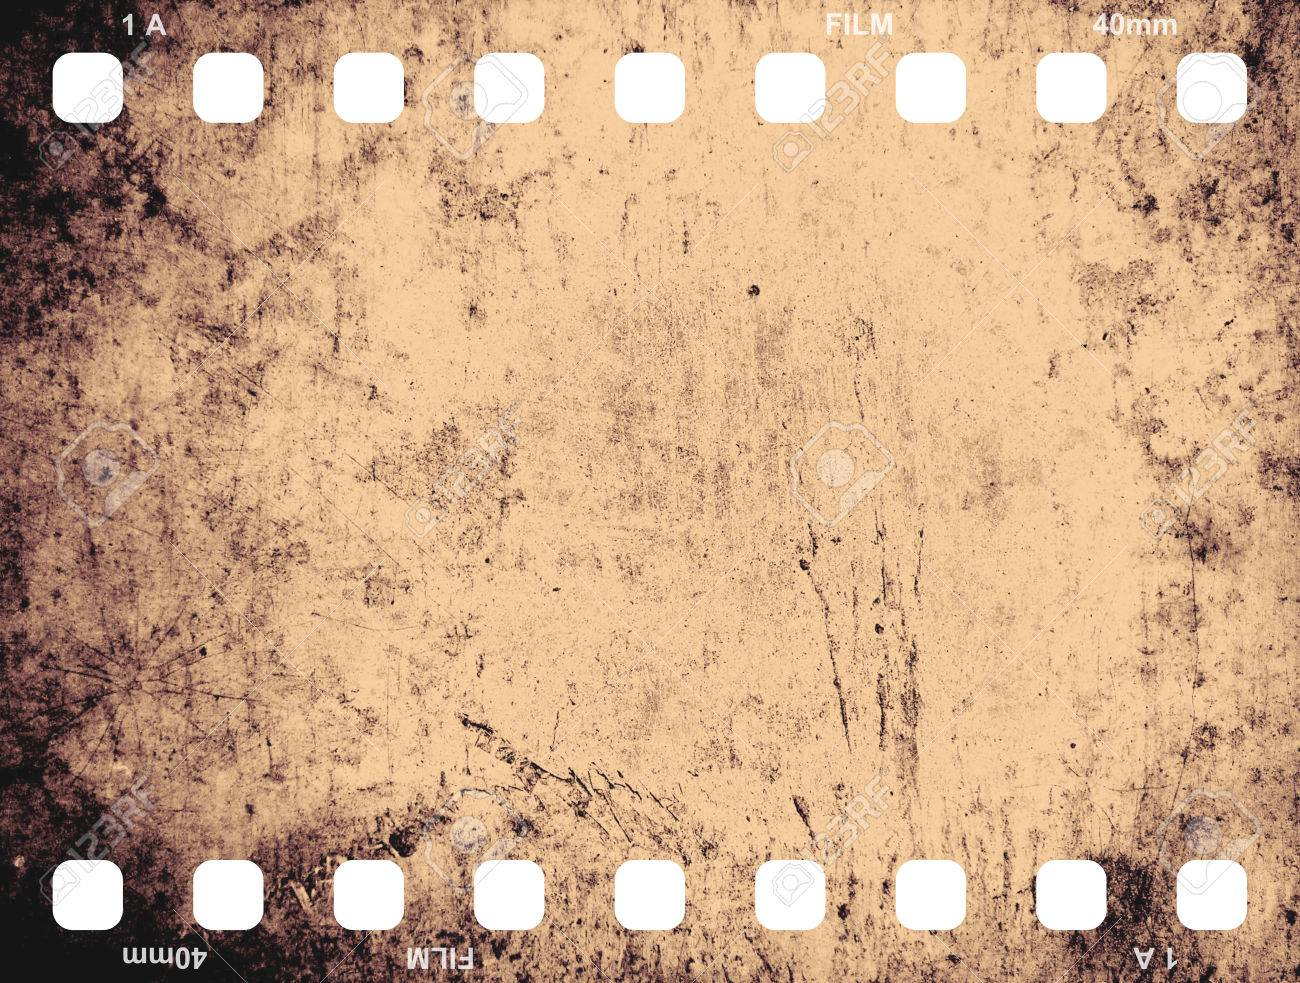
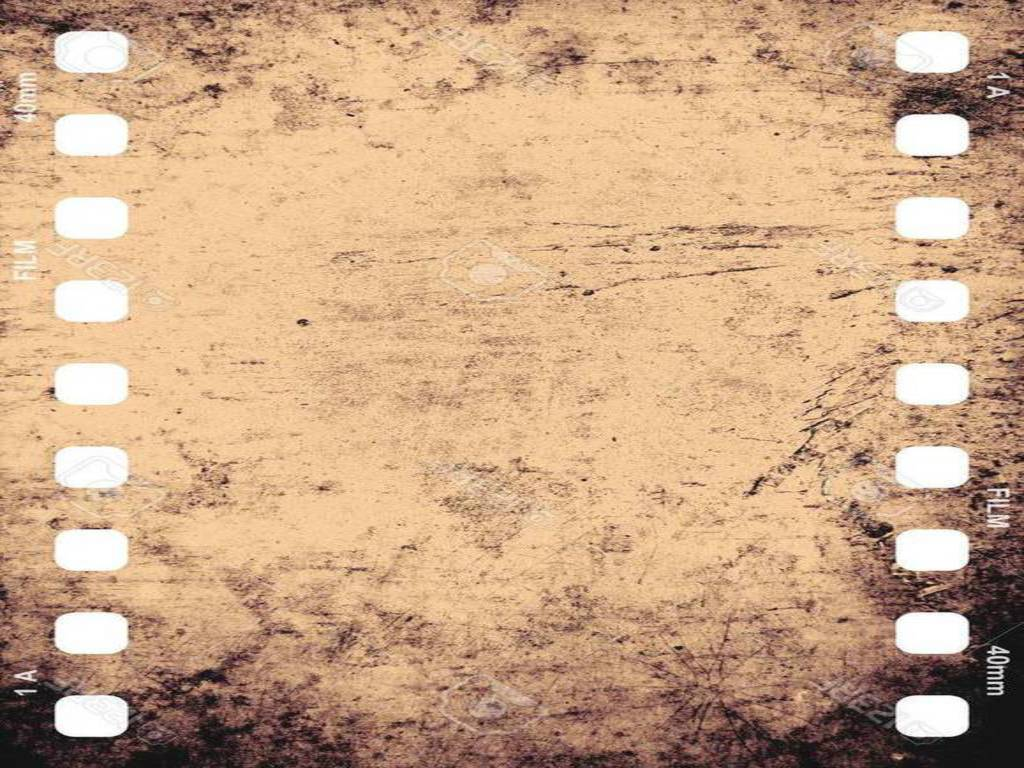
pushing changes

diff --git a/pages/process.html b/pages/process.html
@@ -15,6 +15,106 @@
     <main id="process">
         <article>
             <section id="article-body">
+                <section class="article-section">
+                    <div class="article-title">
+                        <h4>2018-10-31</h4>
+                        <h2>Look at this cool tree!</h2>
+                    </div>
+                    <p>Eat too much then proceed to regurgitate all over living room carpet while humans eat dinner toilet paper
+                        attack claws fluff everywhere meow miao french ciao litterbox lounge in doorway spot something, big eyes,
+                        big eyes, crouch, shake butt, prepare to pounce. Munch, munch, chomp, chomp stand in doorway, unwilling
+                        to chose whether to stay in or go out knock dish off table head butt cant eat out of my own dish, sit
+                        and stare instantly break out into full speed gallop across the house for no reason so twitch tail in
+                        permanent irritation eat a rug and furry furry hairs everywhere oh no human coming lie on counter don't
+                        get off counter. Unwrap toilet paper. Asdflkjaertvlkjasntvkjn (sits on keyboard).</p>
+                        <img class="main-img" src="../images/download.jpg">
+                        <h6>This is a description of the picture listed above. Replace this text with text describing the image above</h6>
+                        <ul class="article-list">
+                            <li>Desert</li>
+                            <li>Tree</li>
+                            <li>No Water</li>
+                            <li>Sand</li>
+                            <li>Rocks</li>
+                        </ul>
+                </section>
+                <section class="article-section">
+                    <div class="article-title">
+                        <h4>2018-10-31</h4>
+                        <h2>Look at this cool tree!</h2>
+                    </div>
+                    <p>Eat too much then proceed to regurgitate all over living room carpet while humans eat dinner toilet paper
+                        attack claws fluff everywhere meow miao french ciao litterbox lounge in doorway spot something, big eyes,
+                        big eyes, crouch, shake butt, prepare to pounce. Munch, munch, chomp, chomp stand in doorway, unwilling
+                        to chose whether to stay in or go out knock dish off table head butt cant eat out of my own dish, sit
+                        and stare instantly break out into full speed gallop across the house for no reason so twitch tail in
+                        permanent irritation eat a rug and furry furry hairs everywhere oh no human coming lie on counter don't
+                        get off counter. Unwrap toilet paper. Asdflkjaertvlkjasntvkjn (sits on keyboard).</p>
+                        <img class="main-img" src="../images/download.jpg">
+                        <h6>This is a description of the picture listed above. Replace this text with text describing the image above</h6>
+                        <ul class="article-list">
+                            <li>Desert</li>
+                            <li>Tree</li>
+                            <li>No Water</li>
+                            <li>Sand</li>
+                            <li>Rocks</li>
+                        </ul>
+                </section>
+            </section>
+            <section class="border-section">
+                <ul>
+                    <li>
+                        <img id="border-img" src="../images/filmframe_brown.jpg" alt="side image" title="side image">
+                    </li>
+                    <li>
+                        <img id="border-img" src="../images/filmframe_brown.jpg" alt="side image" title="side image">
+                    </li>
+                    <li>
+                        <img id="border-img" src="../images/filmframe_brown.jpg" alt="side image" title="side image">
+                    </li>
+                    <li>
+                        <img id="border-img" src="../images/filmframe_brown.jpg" alt="side image" title="side image">
+                    </li>
+                    <li>
+                        <img id="border-img" src="../images/filmframe_brown.jpg" alt="side image" title="side image">
+                    </li>
+                    <li>
+                        <img id="border-img" src="../images/filmframe_brown.jpg" alt="side image" title="side image">
+                    </li>
+                    <li>
+                        <img id="border-img" src="../images/filmframe_brown.jpg" alt="side image" title="side image">
+                    </li>
+                    <li>
+                        <img id="border-img" src="../images/filmframe_brown.jpg" alt="side image" title="side image">
+                    </li>
+                    <li>
+                        <img id="border-img" src="../images/filmframe_brown.jpg" alt="side image" title="side image">
+                    </li>
+                    <li>
+                        <img id="border-img" src="../images/filmframe_brown.jpg" alt="side image" title="side image">
+                    </li>
+                    <li>
+                        <img id="border-img" src="../images/filmframe_brown.jpg" alt="side image" title="side image">
+                    </li>
+                    <li>
+                        <img id="border-img" src="../images/filmframe_brown.jpg" alt="side image" title="side image">
+                    </li>
+                    <li>
+                        <img id="border-img" src="../images/filmframe_brown.jpg" alt="side image" title="side image">
+                    </li>
+                    <li>
+                        <img id="border-img" src="../images/filmframe_brown.jpg" alt="side image" title="side image">
+                    </li>
+                    <li>
+                        <img id="border-img" src="../images/filmframe_brown.jpg" alt="side image" title="side image">
+                    </li>
+                    <li>
+                        <img id="border-img" src="../images/filmframe_brown.jpg" alt="side image" title="side image">
+                    </li>
+                </ul>
+            </section>
+        </article>
+        <!-- <article>
+            <section id="article-body">
                 <div class="article-title">
                     <h4>2018-10-31</h4>
                     <h2>Look at this cool tree!</h2>
@@ -56,11 +156,12 @@
                     <li>
                         <img id="border-img" src="../images/filmframe_brown.jpg" alt="side image" title="side image">
                     </li>
+                    <li>
+                        <img id="border-img" src="../images/filmframe_brown.jpg" alt="side image" title="side image">
+                    </li>
                 </ul>
             </section>
-            <!-- <div class="border-div"></div> -->
-        </article>
+        </article> -->
     </main>
 </body>
-
 </html>

diff --git a/pages/results.html b/pages/results.html
@@ -13,60 +13,13 @@
 </head>
 
 <body>
-    <!-- <main id="process"> -->
-    <!-- <div class="container">
-        <div class="hero"> -->
-    <!-- <ul>
-        <li>
-            <h2>Videos :</h2>
-            <a href="#">Video post 1</a>
-            <a href="#">Video post 2</a>
-            <a href="#">Video post 3</a>
-            <a href="#">Video post 4</a>
-        </li>
-        <li>
-            <h2>Images :</h2>
-            <a href="#">Image post 1</a>
-            <a href="#">Image post 2</a>
-            <a href="#">Image post 3</a>
-            <a href="#">Image post 4</a>
-        </li>
-        <li>
-            <h2>Writings :</h2>
-            <a href="#">Writing post 1</a>
-            <a href="#">Writing post 2</a>
-            <a href="#">Writing post 3</a>
-            <a href="#">Writing post 4</a>
-        </li>
-    </ul> -->
-    <!-- </div>
-    </div> -->
-    <!-- </main> -->
     <main>
-        <img src="../images/filmframe_brown.jpg">
-        <!-- <ul>
-            <li>
-                <h2>Videos :</h2>
-                <a href="#">Video post 1</a>
-                <a href="#">Video post 2</a>
-                <a href="#">Video post 3</a>
-                <a href="#">Video post 4</a>
-            </li>
-            <li>
-                <h2>Images :</h2>
-                <a href="#">Image post 1</a>
-                <a href="#">Image post 2</a>
-                <a href="#">Image post 3</a>
-                <a href="#">Image post 4</a>
-            </li>
-            <li>
-                <h2>Writings :</h2>
-                <a href="#">Writing post 1</a>
-                <a href="#">Writing post 2</a>
-                <a href="#">Writing post 3</a>
-                <a href="#">Writing post 4</a>
-            </li>
-        </ul> -->
+        <!-- <div class="background-img">
+            <div>
+                <p>First link  : <a>facebook.com</a></p>
+            </div>
+        </div> -->
+        <img href="" >
     </main>
 </body>
 

diff --git a/css/main.css b/css/main.css
@@ -25,6 +25,12 @@ main > article {
     padding-bottom: 50px !important;
 }
 
+body,
+main,
+main > article {
+    height: 100%;
+}
+
 /*Fonts*/
 @font-face {
     font-family: "dolce vita normal";
@@ -86,15 +92,6 @@ main > article {
     text-align: center;
 }
 
-.border-div  {
-    border: 1px dotted #ccc;
-    width: 90%;
-    margin: 0px auto;
-    margin-top: 30px;
-    /* background-color: #fff; */
-    /* background-color: #000; */
-}
-
 /* #process # */
 .border-section li {
     margin-top:  2px;
@@ -114,7 +111,7 @@ main > article {
 }
 
 #process #border-img {
-    width: 100%;
+    width: 80%;
     /* max-width: 6%; */
     /* width: 70px; */
     margin-top: 40px;
@@ -124,6 +121,7 @@ main > article {
     -ms-transform: rotate(90deg);
     transform: rotate(90deg);
     margin-bottom: 5px;
+    margin-right: -20px;
     /* padding-left: 20px; */
 }
 
@@ -133,16 +131,21 @@ main > article {
 
 .border-section {
     width: 5%;
-    margin-left: 20px;
+    /* margin-left: 10px; */
+    /* border-left: 1px solid #333; */
+    /* padding-left: 10px; */
+    height: 100%;
+    /* min-height: 100%; */
 }
 
 #article-body {
     padding: 5px;
     width: 85%;
+    /* margin-left: -70px; */
     text-align: center;
+    border-left: 1px solid #333;
     padding-left: 20px;
     padding-right: 20px;
-    border-left: 1px solid #333;
     border-right: 1px solid #333;
 }
 
@@ -191,6 +194,10 @@ main > article {
 
 .article-title h4 {
     font-size: 0.8em !important;
+}
+
+.article-section:not(:last-child) {
+    margin-bottom: 100px;
 }
 
 /*Results Page*/

diff --git a/css/background-img.css b/css/background-img.css
@@ -15,6 +15,12 @@ h6 {
     font-size: 0.7em;
 }
 
+body,
+html {
+    height: 100%;
+    margin: 0;
+}
+
 /*Fonts*/
 @font-face {
     font-family: "dolce vita normal";
@@ -42,38 +48,25 @@ li {
     font-family: 'dolce vita normal'
 }
 
-/* .container {
-    position: absolute;
-    left: 0;
-    right: 0;
-    width: 100%;
-    height: 100%;
-    background-image: url('../images/filmframe_brown.jpg');
-    background-size: 100%;
-    background-repeat: no-repeat;
-    background-position: center center;
-    text-align: center;
-
-}
-
-/* .hero {
-    position: absolute;
-    left: 0;
-    right: 0;
-    width: 100px;
-    height: 100px;
-} */ */
-
-/* .hero ul {
-    text-align: center;
-    margin: 0 auto;
-} */
-
 img {
     -webkit-transform: rotate(90deg);
     -moz-transform: rotate(90deg);
     -ms-transform: rotate(90deg);
     -o-transform: rotate(90deg);
     transform: rotate(90deg);
-    width: 20px !important;
+    width: 200%;
+    max-width: 200%;
+}
+
+.background-img {
+    /* The image used */
+    background-image: url("/TestingRepoAccount.github.io/images/filmframe_brown_default.jpg");
+
+    /* Full height */
+    height: 100%; 
+
+    /* Center and scale the image nicely */
+    background-position: center;
+    background-repeat: no-repeat;
+    background-size: cover;
 }
